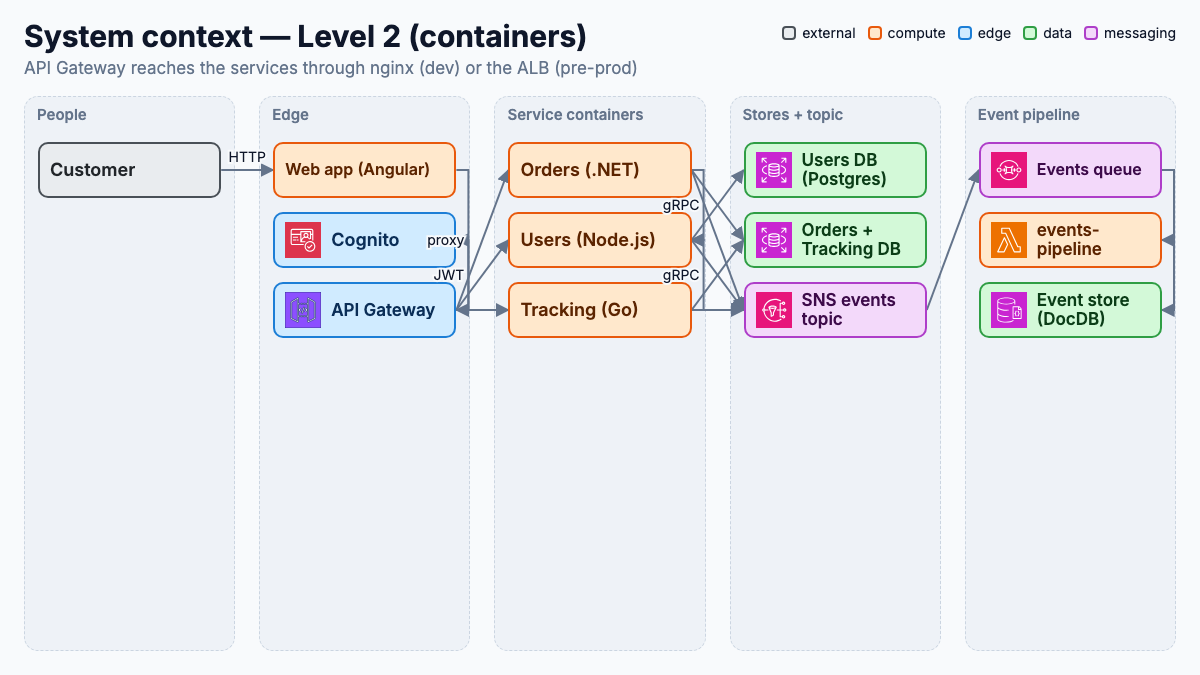
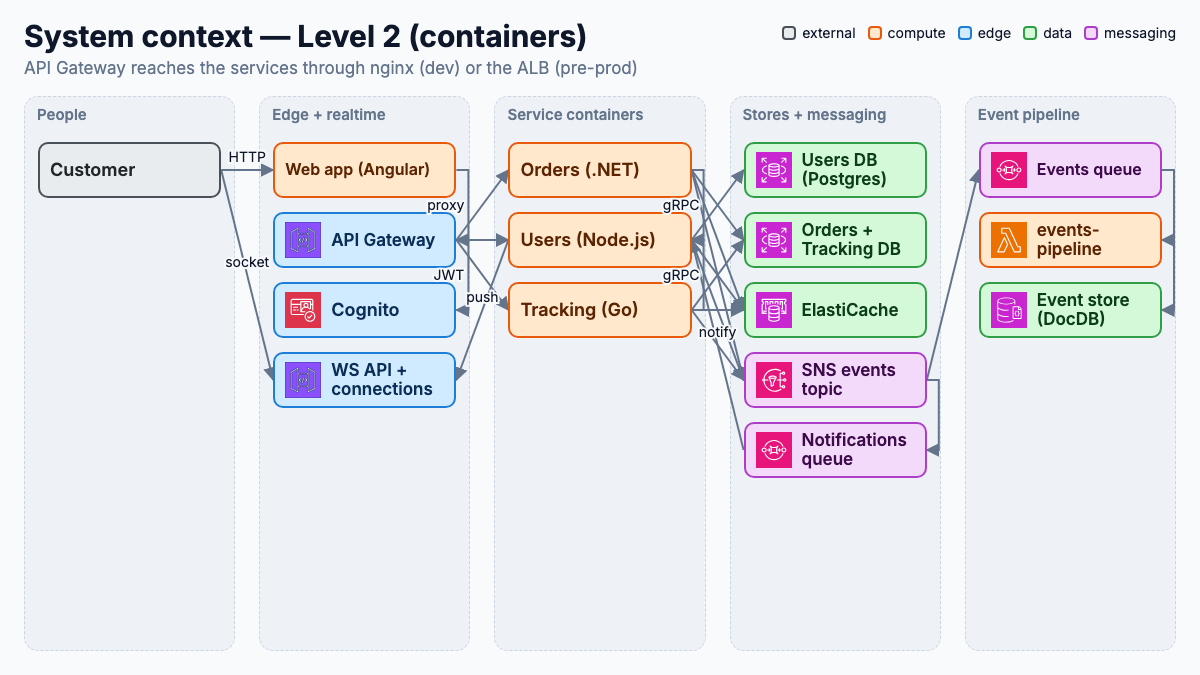
docs(infra): show every store and queue on the architecture and container maps
Plan: docs/superpowers/plans/2026-10-06-remotion-diagrams.md

diff --git a/diagrams/src/data/architecture/preprod.ts b/diagrams/src/data/architecture/preprod.ts
@@ -4,52 +4,57 @@ import type { ArchitectureData } from "../../schema";
 // infra/environments/preprod/{main,services}.tf, docker-compose.preprod.yml.
 export const architecturePreprod: ArchitectureData = {
   title: "Architecture — pre-prod (ECS on Floci)",
-  subtitle: "Every service is an ECS task behind the ALB on its own Floci; images come from ECR",
+  subtitle: "Every service is an ECS task on its own Floci; the ALB has one listener per service",
   zones: [
     { id: "client", label: "Host browser" },
     { id: "edge", label: "Floci edge + config" },
-    { id: "tasks", label: "ECS tasks" },
-    { id: "stores", label: "Floci stores + topic" },
-    { id: "pipeline", label: "Floci event pipeline" },
+    { id: "compute", label: "ECS tasks + Lambda" },
+    { id: "stores", label: "Floci data + messaging" },
   ],
   nodes: [
-    { id: "browser", label: "Browser", kind: "external", zone: "client" },
-    { id: "cognito", label: "Cognito", kind: "edge", aws: "cognito", zone: "edge" },
-    { id: "apigw", label: "API Gateway", kind: "edge", aws: "api-gateway", zone: "edge" },
+    { id: "browser", label: "Browser (SPA)", kind: "external", zone: "client" },
+    { id: "apigw", label: "API GW + Cognito", kind: "edge", aws: "api-gateway", zone: "edge" },
     { id: "alb", label: "ALB", kind: "edge", aws: "elb", zone: "edge" },
-    { id: "ecr", label: "ECR", kind: "data", aws: "ecr", zone: "edge" },
-    { id: "config", label: "SSM + secrets", kind: "data", aws: "ssm", zone: "edge" },
-    { id: "web", label: "Web task", kind: "compute", aws: "ecs", zone: "tasks" },
-    { id: "orders", label: "Orders task", kind: "compute", aws: "ecs", zone: "tasks" },
-    { id: "users", label: "Users task", kind: "compute", aws: "ecs", zone: "tasks" },
-    { id: "tracking", label: "Tracking task", kind: "compute", aws: "ecs", zone: "tasks" },
-    { id: "cluster", label: "ECS cluster", kind: "compute", aws: "ecs", zone: "tasks" },
-    { id: "pg", label: "RDS PostgreSQL", kind: "data", aws: "rds", zone: "stores" },
-    { id: "mysql", label: "RDS MySQL", kind: "data", aws: "rds", zone: "stores" },
+    { id: "ws", label: "WS API + connections", kind: "edge", aws: "api-gateway", zone: "edge" },
+    { id: "deploy", label: "ECR + SSM/secrets", kind: "data", aws: "ecr", zone: "edge" },
+    { id: "web", label: "Web task", kind: "compute", aws: "ecs", zone: "compute" },
+    { id: "orders", label: "Orders task", kind: "compute", aws: "ecs", zone: "compute" },
+    { id: "users", label: "Users task", kind: "compute", aws: "ecs", zone: "compute" },
+    { id: "tracking", label: "Tracking task", kind: "compute", aws: "ecs", zone: "compute" },
+    { id: "lambda", label: "events-pipeline", kind: "compute", aws: "lambda", zone: "compute" },
+    { id: "obs", label: "OTel+O2+Mailpit tasks", kind: "compute", aws: "ecs", zone: "compute" },
+    { id: "cluster", label: "ECS cluster", kind: "compute", aws: "ecs", zone: "compute" },
+    { id: "rds", label: "RDS Postgres + MySQL", kind: "data", aws: "rds", zone: "stores" },
+    { id: "redis", label: "ElastiCache", kind: "data", aws: "elasticache", zone: "stores" },
     { id: "sns", label: "SNS events topic", kind: "messaging", aws: "sns", zone: "stores" },
-    { id: "events", label: "Events queue", kind: "messaging", aws: "sqs", zone: "pipeline" },
-    { id: "lambda", label: "events-pipeline", kind: "compute", aws: "lambda", zone: "pipeline" },
+    { id: "sqs", label: "Events + notif queues", kind: "messaging", aws: "sqs", zone: "stores" },
+    { id: "docdb", label: "Event store (DocDB)", kind: "data", aws: "documentdb", zone: "stores" },
+    { id: "ses", label: "SES", kind: "messaging", aws: "ses", zone: "stores" },
   ],
   edges: [
     { from: "browser", to: "alb", label: "HTTP" },
     { from: "alb", to: "web" },
     { from: "web", to: "apigw", label: "proxy" },
-    { from: "apigw", to: "cognito", label: "JWT" },
     { from: "apigw", to: "alb", label: "routes" },
-    { from: "alb", to: "orders" },
-    { from: "alb", to: "users" },
-    { from: "alb", to: "tracking" },
-    { from: "ecr", to: "cluster", label: "images" },
-    { from: "config", to: "cluster", label: "config" },
+    { from: "alb", to: "users", label: "listeners" },
+    { from: "deploy", to: "cluster", label: "images" },
     { from: "orders", to: "users", label: "gRPC" },
     { from: "tracking", to: "users", label: "gRPC" },
-    { from: "users", to: "pg" },
-    { from: "orders", to: "mysql" },
-    { from: "tracking", to: "mysql" },
-    { from: "users", to: "sns" },
+    { from: "orders", to: "rds" },
+    { from: "users", to: "rds" },
+    { from: "tracking", to: "rds" },
+    { from: "orders", to: "redis" },
+    { from: "users", to: "redis" },
+    { from: "tracking", to: "redis" },
     { from: "orders", to: "sns" },
+    { from: "users", to: "sns" },
     { from: "tracking", to: "sns" },
-    { from: "sns", to: "events" },
-    { from: "events", to: "lambda" },
+    { from: "sns", to: "sqs" },
+    { from: "sqs", to: "lambda", label: "events" },
+    { from: "sqs", to: "users", label: "notify" },
+    { from: "lambda", to: "docdb" },
+    { from: "lambda", to: "ses" },
+    { from: "lambda", to: "ws", label: "fan-out" },
+    { from: "ses", to: "obs", label: "SMTP" },
   ],
 };

diff --git a/diagrams/src/data/architecture/dev-floci.ts b/diagrams/src/data/architecture/dev-floci.ts
@@ -1,57 +1,60 @@
 import type { ArchitectureData } from "../../schema";
 
 // CONTRACT: zones are ordered so every edge joins the same or an adjacent zone; a straight edge
-// across a zone passes behind its nodes. Sources: infra/environments/local/main.tf, docker-compose.yml.
+// across a zone passes behind its nodes. Sources: infra/environments/local/main.tf,
+// docker-compose.yml, infra/environments/local/scripts/generate_env_files.py.
 export const architectureDevFloci: ArchitectureData = {
   title: "Architecture — local dev (Floci)",
-  subtitle: "Services run in Docker Compose; every AWS resource runs on the Floci emulator",
+  subtitle: "Services run in Docker Compose, AWS on Floci; nginx routes by path to all three services",
   zones: [
     { id: "client", label: "Host browser" },
     { id: "edge", label: "Floci edge" },
-    { id: "services", label: "Compose services" },
-    { id: "stores", label: "Floci stores + topic" },
-    { id: "pipeline", label: "Floci event pipeline" },
+    { id: "compute", label: "Compose + Lambda" },
+    { id: "stores", label: "Floci data + messaging" },
   ],
   nodes: [
-    { id: "browser", label: "Browser", kind: "external", zone: "client" },
+    { id: "browser", label: "Browser (SPA)", kind: "external", zone: "client" },
     { id: "web", label: "Web app (nginx)", kind: "compute", zone: "client" },
     { id: "cognito", label: "Cognito", kind: "edge", aws: "cognito", zone: "edge" },
     { id: "apigw", label: "API Gateway", kind: "edge", aws: "api-gateway", zone: "edge" },
     { id: "nginx", label: "nginx ECS task", kind: "edge", aws: "ecs", zone: "edge" },
-    { id: "ws", label: "WebSocket API", kind: "edge", aws: "api-gateway", zone: "edge" },
-    { id: "orders", label: "Orders", kind: "compute", zone: "services" },
-    { id: "users", label: "Users", kind: "compute", zone: "services" },
-    { id: "tracking", label: "Tracking", kind: "compute", zone: "services" },
+    { id: "ws", label: "WS API + connections", kind: "edge", aws: "api-gateway", zone: "edge" },
+    { id: "orders", label: "Orders", kind: "compute", zone: "compute" },
+    { id: "users", label: "Users", kind: "compute", zone: "compute" },
+    { id: "tracking", label: "Tracking", kind: "compute", zone: "compute" },
+    { id: "lambda", label: "events-pipeline", kind: "compute", aws: "lambda", zone: "compute" },
     { id: "pg", label: "RDS PostgreSQL", kind: "data", aws: "rds", zone: "stores" },
     { id: "mysql", label: "RDS MySQL", kind: "data", aws: "rds", zone: "stores" },
+    { id: "redis", label: "ElastiCache", kind: "data", aws: "elasticache", zone: "stores" },
     { id: "sns", label: "SNS events topic", kind: "messaging", aws: "sns", zone: "stores" },
-    { id: "notif", label: "Notifications queue", kind: "messaging", aws: "sqs", zone: "stores" },
-    { id: "events", label: "Events queue", kind: "messaging", aws: "sqs", zone: "pipeline" },
-    { id: "lambda", label: "events-pipeline", kind: "compute", aws: "lambda", zone: "pipeline" },
-    { id: "docdb", label: "Event store (DocDB)", kind: "data", aws: "documentdb", zone: "pipeline" },
+    { id: "sqs", label: "Events + notif queues", kind: "messaging", aws: "sqs", zone: "stores" },
+    { id: "docdb", label: "Event store (DocDB)", kind: "data", aws: "documentdb", zone: "stores" },
+    { id: "ses", label: "SES (Mailpit)", kind: "messaging", aws: "ses", zone: "stores" },
   ],
   edges: [
     { from: "browser", to: "web", label: "HTTP" },
     { from: "web", to: "apigw", label: "proxy" },
-    { from: "web", to: "ws", label: "socket" },
+    { from: "browser", to: "ws", label: "socket" },
     { from: "apigw", to: "cognito", label: "JWT" },
     { from: "apigw", to: "nginx" },
-    { from: "nginx", to: "orders" },
-    { from: "nginx", to: "users" },
-    { from: "nginx", to: "tracking" },
+    { from: "nginx", to: "users", label: "by path" },
     { from: "orders", to: "users", label: "gRPC" },
     { from: "tracking", to: "users", label: "gRPC" },
     { from: "users", to: "pg" },
     { from: "orders", to: "mysql" },
     { from: "tracking", to: "mysql" },
-    { from: "users", to: "sns" },
+    { from: "orders", to: "redis" },
+    { from: "users", to: "redis" },
+    { from: "tracking", to: "redis" },
     { from: "orders", to: "sns" },
+    { from: "users", to: "sns" },
     { from: "tracking", to: "sns" },
-    { from: "sns", to: "events" },
-    { from: "sns", to: "notif" },
-    { from: "notif", to: "users" },
-    { from: "users", to: "ws" },
-    { from: "events", to: "lambda" },
+    { from: "sns", to: "sqs" },
+    { from: "sqs", to: "lambda", label: "events" },
+    { from: "sqs", to: "users", label: "notify" },
+    { from: "users", to: "ws", label: "push" },
     { from: "lambda", to: "docdb" },
+    { from: "lambda", to: "ses" },
+    { from: "lambda", to: "ws", label: "fan-out" },
   ],
 };

diff --git a/diagrams/src/data/system-context/l2.ts b/diagrams/src/data/system-context/l2.ts
@@ -1,28 +1,31 @@
 import type { ArchitectureData } from "../../schema";
 
 // CONTRACT: zones are container boundaries, ordered so every edge joins the same or an adjacent zone.
-// Sources: infra/modules/{api-gateway,cognito,messaging,lambda}, services/*/openapi.yaml.
+// Sources: infra/modules/{api-gateway,api-gateway-ws,cognito,messaging,lambda}, services/*/openapi.yaml.
 export const systemContextL2: ArchitectureData = {
   title: "System context — Level 2 (containers)",
   subtitle: "API Gateway reaches the services through nginx (dev) or the ALB (pre-prod)",
   zones: [
     { id: "people", label: "People" },
-    { id: "edge", label: "Edge" },
+    { id: "edge", label: "Edge + realtime" },
     { id: "services", label: "Service containers" },
-    { id: "stores", label: "Stores + topic" },
+    { id: "stores", label: "Stores + messaging" },
     { id: "pipeline", label: "Event pipeline" },
   ],
   nodes: [
     { id: "customer", label: "Customer", kind: "external", zone: "people" },
     { id: "web", label: "Web app (Angular)", kind: "compute", zone: "edge" },
-    { id: "cognito", label: "Cognito", kind: "edge", aws: "cognito", zone: "edge" },
     { id: "apigw", label: "API Gateway", kind: "edge", aws: "api-gateway", zone: "edge" },
+    { id: "cognito", label: "Cognito", kind: "edge", aws: "cognito", zone: "edge" },
+    { id: "ws", label: "WS API + connections", kind: "edge", aws: "api-gateway", zone: "edge" },
     { id: "orders", label: "Orders (.NET)", kind: "compute", zone: "services" },
     { id: "users", label: "Users (Node.js)", kind: "compute", zone: "services" },
     { id: "tracking", label: "Tracking (Go)", kind: "compute", zone: "services" },
     { id: "pg", label: "Users DB (Postgres)", kind: "data", aws: "rds", zone: "stores" },
     { id: "mysql", label: "Orders + Tracking DB", kind: "data", aws: "rds", zone: "stores" },
+    { id: "redis", label: "ElastiCache", kind: "data", aws: "elasticache", zone: "stores" },
     { id: "sns", label: "SNS events topic", kind: "messaging", aws: "sns", zone: "stores" },
+    { id: "notif", label: "Notifications queue", kind: "messaging", aws: "sqs", zone: "stores" },
     { id: "events", label: "Events queue", kind: "messaging", aws: "sqs", zone: "pipeline" },
     { id: "lambda", label: "events-pipeline", kind: "compute", aws: "lambda", zone: "pipeline" },
     { id: "docdb", label: "Event store (DocDB)", kind: "data", aws: "documentdb", zone: "pipeline" },
@@ -30,6 +33,7 @@ export const systemContextL2: ArchitectureData = {
   edges: [
     { from: "customer", to: "web", label: "HTTP" },
     { from: "web", to: "apigw", label: "proxy" },
+    { from: "customer", to: "ws", label: "socket" },
     { from: "apigw", to: "cognito", label: "JWT" },
     { from: "apigw", to: "orders" },
     { from: "apigw", to: "users" },
@@ -39,10 +43,16 @@ export const systemContextL2: ArchitectureData = {
     { from: "users", to: "pg" },
     { from: "orders", to: "mysql" },
     { from: "tracking", to: "mysql" },
-    { from: "users", to: "sns" },
+    { from: "orders", to: "redis" },
+    { from: "users", to: "redis" },
+    { from: "tracking", to: "redis" },
     { from: "orders", to: "sns" },
+    { from: "users", to: "sns" },
     { from: "tracking", to: "sns" },
     { from: "sns", to: "events" },
+    { from: "sns", to: "notif" },
+    { from: "notif", to: "users", label: "notify" },
+    { from: "users", to: "ws", label: "push" },
     { from: "events", to: "lambda" },
     { from: "lambda", to: "docdb" },
   ],

diff --git a/diagrams/src/data/system-context.catalog.ts b/diagrams/src/data/system-context.catalog.ts
@@ -2,7 +2,10 @@ import type { CatalogEntry } from "../catalog";
 import { systemContextL1 } from "./system-context/l1";
 import { systemContextL2 } from "./system-context/l2";
 
-const watches = ["infra/modules/api-gateway/**", "infra/modules/cognito/**", "services/*/openapi.yaml"];
+const watches = [
+  "infra/modules/api-gateway/**", "infra/modules/cognito/**", "services/*/openapi.yaml", "apps/web/nginx.conf",
+  "infra/modules/compute/**", "infra/modules/alb/**", "infra/modules/docdb/**", "infra/modules/redis/**",
+];
 
 export const systemContextEntries: CatalogEntry[] = [
   {
@@ -17,7 +20,7 @@ export const systemContextEntries: CatalogEntry[] = [
     id: "system-context-l2",
     title: systemContextL2.title,
     output: "docs/00-overview/diagrams/system-context-l2",
-    watches: [...watches, "infra/modules/messaging/**", "infra/modules/lambda/**"],
+    watches: [...watches, "infra/modules/messaging/**", "infra/modules/lambda/**", "infra/modules/api-gateway-ws/**", "infra/modules/dynamodb/**"],
     primitive: "architecture",
     data: systemContextL2,
   },

diff --git a/diagrams/src/data/system-context/l1.ts b/diagrams/src/data/system-context/l1.ts
@@ -23,7 +23,7 @@ export const systemContextL1: ArchitectureData = {
   edges: [
     { from: "customer", to: "app", label: "uses" },
     { from: "carrier", to: "app", label: "status" },
-    { from: "app", to: "stripe", label: "payments" },
+    { from: "app", to: "stripe", label: "pay+hooks" },
     { from: "app", to: "geoapify", label: "geocode" },
     { from: "app", to: "cognito", label: "auth" },
     { from: "app", to: "ses", label: "email" },
